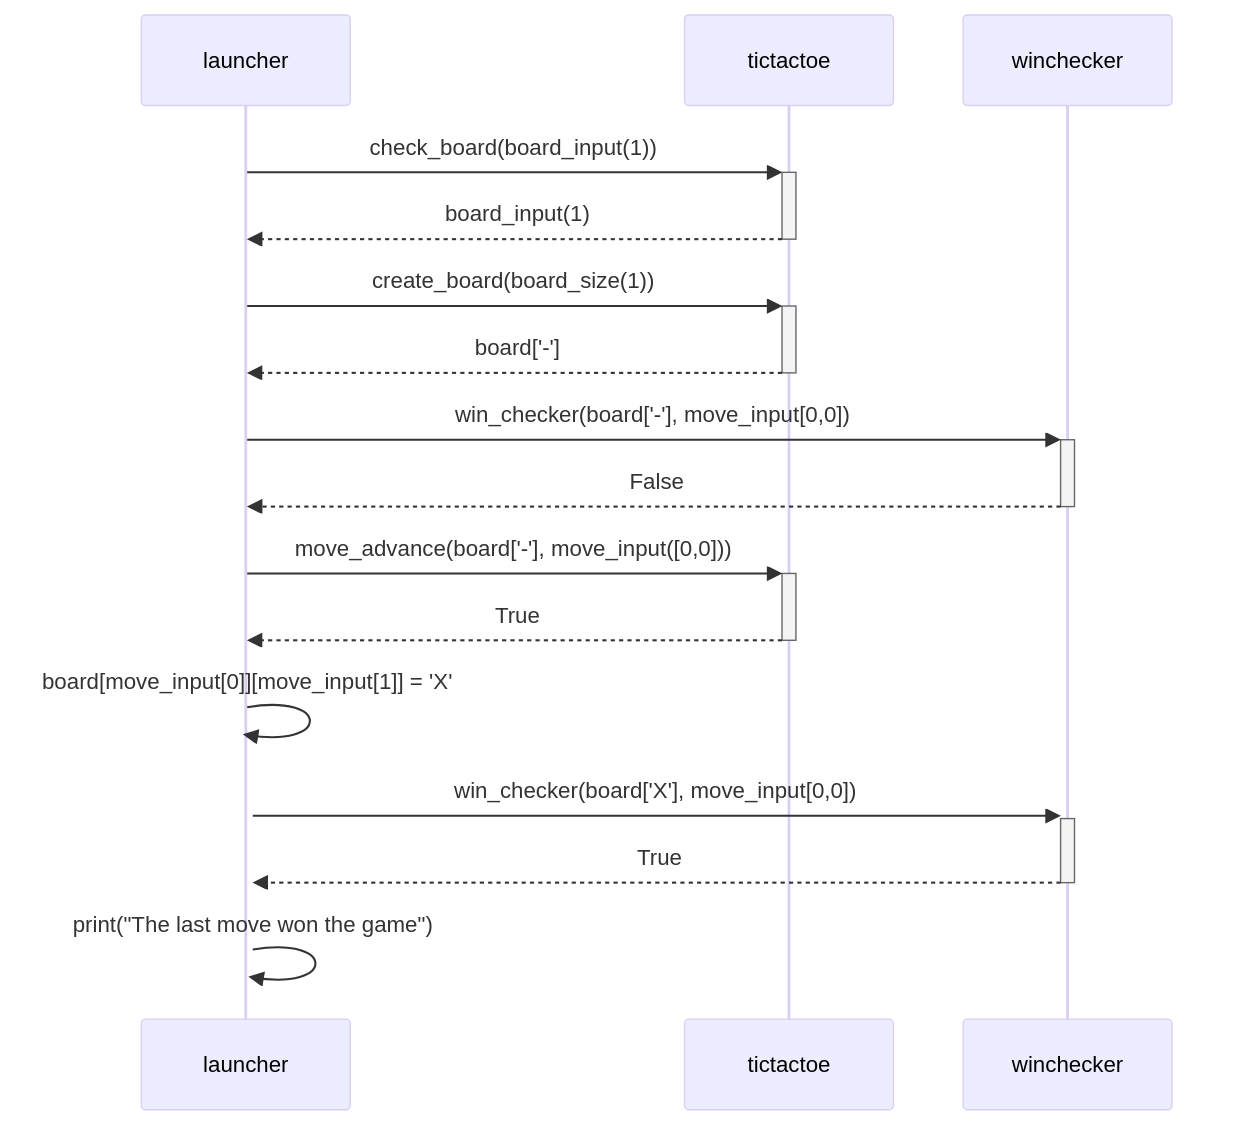
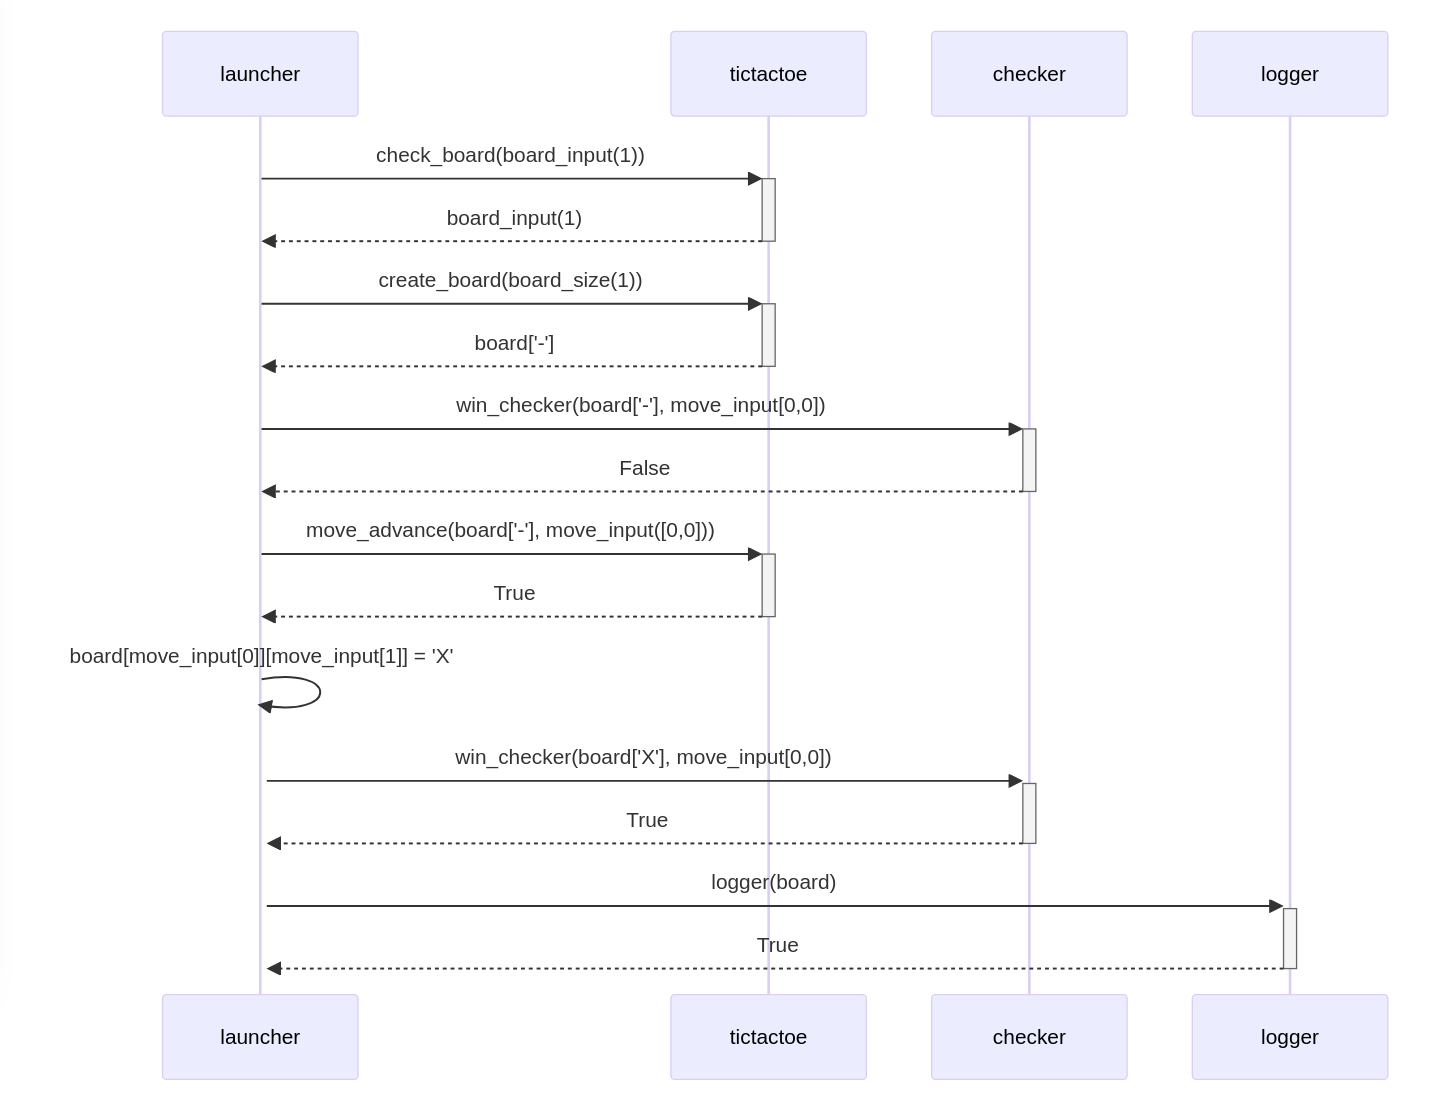
Dokumentaation loppupäivitys

diff --git a/dokumentaatio/arkkitehtuuri.md b/dokumentaatio/arkkitehtuuri.md
@@ -1,11 +1,11 @@
 # Arkkitehtuurikuvaus
 
-## Rakenne
-Viikon 6 vaiheen kuvaus ohjelman rakenteesta. launcher.py kysyy käyttäjän toimenpiteitä ja säilyttää varsinaista pelitilaa, tictactoe.py muokkaa launcher.py:n antamia syötteitä ja tekee niille tarkistuksia. winchecker.py ilmoittaa, kun voittava siirto on tehty.
+## Perusrakenne
+Loppupalautuksen mukainen kuvaus ohjelman rakenteesta. launcher.py kysyy käyttäjän toimenpiteitä ja säilyttää varsinaista pelitilaa, tictactoe.py muokkaa launcher.py:n antamia syötteitä ja tekee niille tarkistuksia. winchecker.py ilmoittaa, kun voittava siirto on tehty. logger.py tallentaa pelin lopputilan ja aikaleiman haluttaessa lokitiedostoon.
 ![arkkitehtuuri](./kuvat/arkkitehtuuri.png)
 ## Sekvenssikaavio
 ![sekvenssikaavio](./kuvat/sekvenssikaavio.png)
-Esimerkkitilanne pelin kulusta:
+Esimerkkitilanne pelin kulusta (1x1 peli ei lopullisessa versiossa oikeasti sallittu, minimi 3x3):
 - Pelaaja valitsee 1x1 pelin
 - check_board tarkistaa laudan sopivuuden ja palauttaa laudan koon (1)
 - create_board luo ja palauttaa laudan (listojen lista) "-" -merkein. Tässä tapauksessa vain ["-"]
@@ -14,3 +14,20 @@ Esimerkkitilanne pelin kulusta:
 - Siirto päivitetään peliin
 - win_checker tarkistaa, onko pelillä voittajaa (True)
 - Voittaja löytyy ja edellisen siirron ilmoitetaan voittaneen
+- launcher kysyy, haluaako pelaaja tallentaa pelin lopputilanteen lokitiedostoon. Jos kyllä, laudan lopputilanne lähetetään loggerille, ja se tallentaa pelitilan ja aikaleiman tekstitiedostoon
+- Viimeinen True return on olemassa testausta varten eikä enää vaikuta peliin.
+
+## Kokonaisuudessaan luokkien tehtävänjako on seuraava
+### Launcher
+- Kaikki kyselyt pelaajalta (laudan koko, siirron rivi, siirron sarake, pelin keskeytys, pelilokiin tallennus)
+- Varsinainen while-loop, jossa peli pyörii
+### Tictactoe
+- Syötetyn pelilaudan koon tarkistus
+- Tyhjän laudan generointi
+- Siirron laillisuuden tarkistus
+### WinChecker
+- Voittajan määrittäminen (rivi, sarake, diagonaalit)
+### Logger
+- Pelilokin kirjoittaminen
+
+Launcher tekee suurimman osan tulostuksista. Osa virheilmoituksista oli luonteva toteuttaa Tictactoe:n puolella, mutta ne saisi periaatteessa monimutkaisempien return-lauseiden avulla myös täysin käyttöliittymän puolelle.

diff --git a/README.md b/README.md
@@ -4,10 +4,11 @@
 - [Työaikakirjanpito](./dokumentaatio/tuntikirjanpito.md)
 - [Changelog](./dokumentaatio/changelog.md)
 - [Arkkitehtuurikuvaus](./dokumentaatio/arkkitehtuuri.md)
+- [Testausdokumentaatio](./dokumentaatio/testaus.md)
 - [Käyttöohje](./dokumentaatio/kayttoohje.md)
-- [Uusin release (viikko 5)](https://github.com/Jpentik/ot-ristinolla/releases/tag/viikko5)
+- [Uusin release (viikko 7)](https://github.com/Jpentik/ot-ristinolla/releases/tag/viikko7)
 ## Pikaohje:
-Harjoitustyö on pythonilla toteutettu ristinollapeli.
+Harjoitustyö on Pythonilla toteutettu ristinollapeli.
 - Lataa ja pura uusin release
 - Asenna riippuvuudet juurihakemistoon komennolla: poetry install
 - Pelin käynnistys (launcher.py) komennolla: poetry run invoke start

diff --git a/dokumentaatio/tuntikirjanpito.md b/dokumentaatio/tuntikirjanpito.md
@@ -9,4 +9,6 @@ Tuntikirjanpito
 | 22.4. | 6    | Pääohjelman kehitystä|
 | 23.4. | 6    | Pääohjelman kehitystä, uusia testejä, 1. release, dokumentaation päivitystä|
 | 30.4. | 6    | Pääohjelman kehitystä, docstring-dokumentaatio, uusia testejä, 2. release, käyttöohjeen ja arkkitehtuurikuvauksen päivitys|
-|  yht  | 39    |
+| 11.5. | 2    | Pääohjelman kehitystä
+| 12.4. | 5    | Testit uudelle logger-luokalle, testidokumentti, käyttöohjeen, arkkitehtuurikuvauksen ja vaatimusmäärittelyn lopulliset päivitykset|
+|  yht  | 46    |
